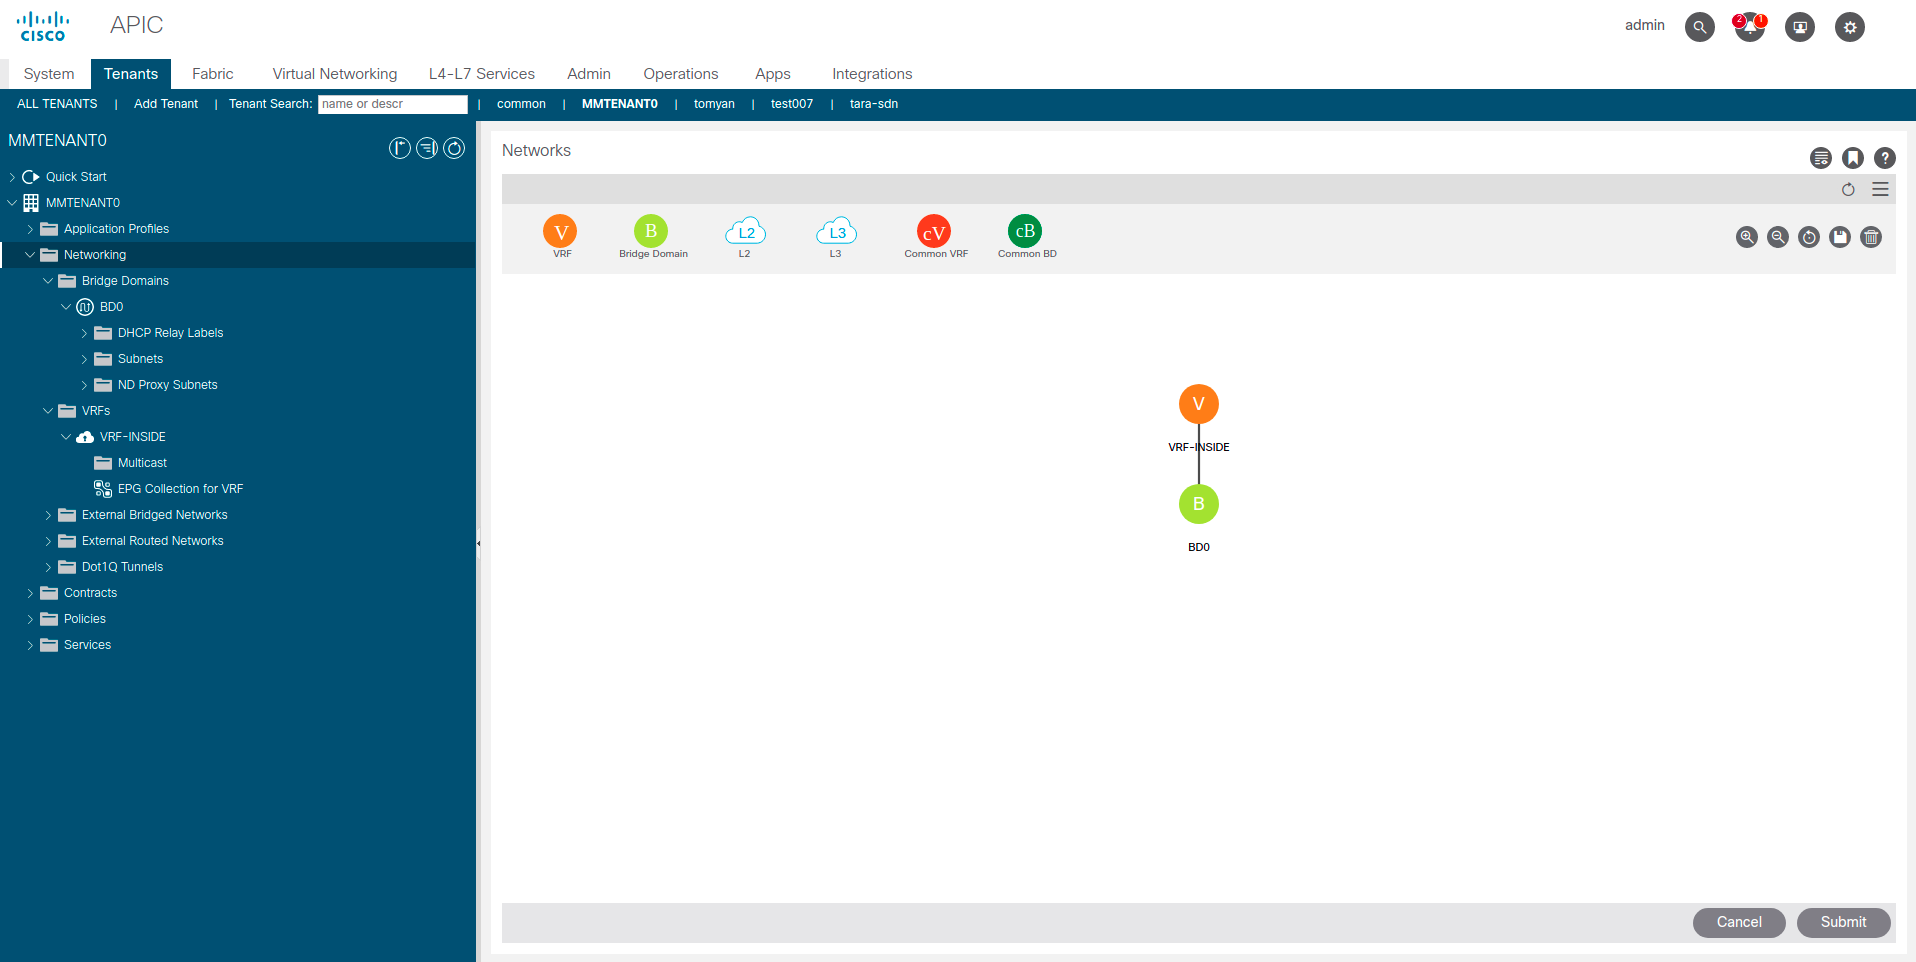
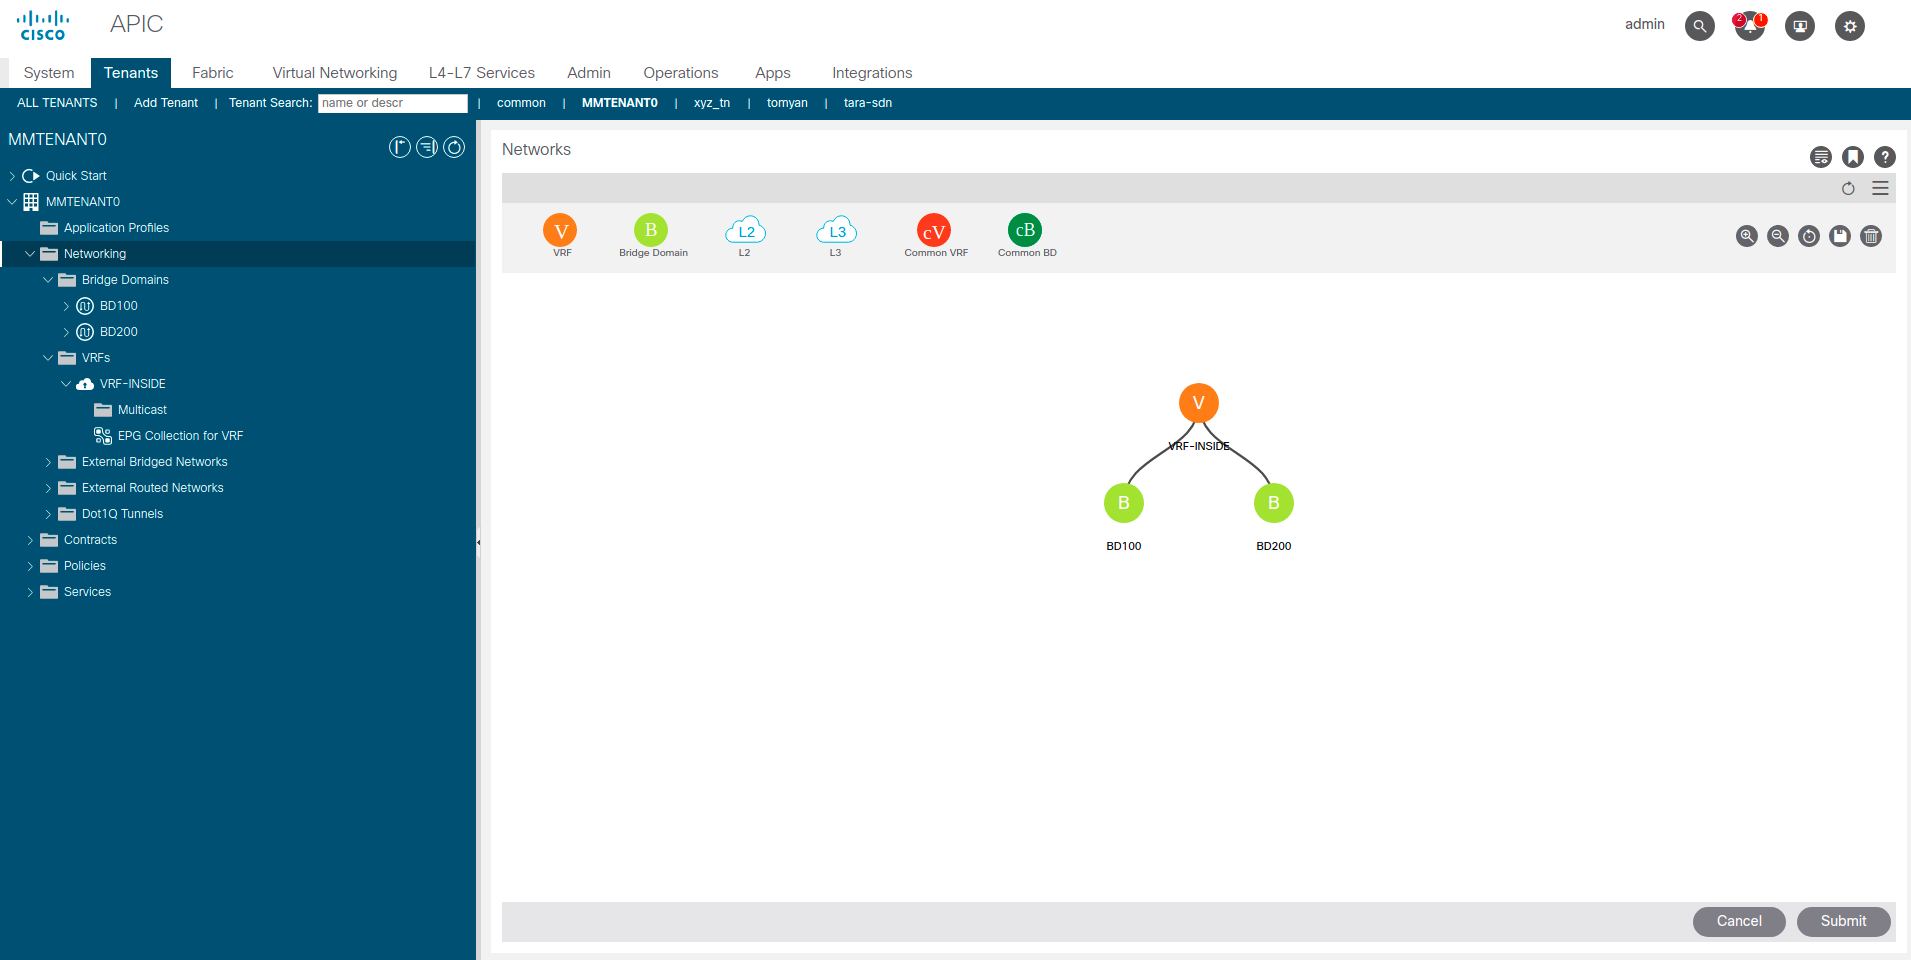
LAB03 begin

diff --git a/LAB2/LAB02_instructions.md b/LAB2/LAB02_instructions.md
@@ -1,12 +1,12 @@
 # LAB02 - Tenant, VRF and Bridge Domain
 
-## Table of Content
+## Table of Contents
 - [LAB02 - Tenant, VRF and Bridge Domain](#lab02---tenant-vrf-and-bridge-domain)
-  - [Table of Content](#table-of-content)
+  - [Table of Contents](#table-of-contents)
   - [Introduction](#introduction)
   - [Configuration Procedure](#configuration-procedure)
     - [ACI Tenant Creation](#aci-tenant-creation)
-    - [ACI VRF & Bridge Domain Creation](#aci-vrf--bridge-domain-creation)
+    - [ACI VRF & Bridge Domains Creation](#aci-vrf--bridge-domains-creation)
   - [Conclusions](#conclusions)
 
 ## Introduction
@@ -14,18 +14,20 @@
 In this lab you will configure from scratch the following objects on the Cisco APIC:
 - 1x Tenant
 - 1x VRF
-- 1x Bridge Domain
+- 2x Bridge Domains
 
 As reference, the following image reports the relationships between these three objects as they are modelled in the ACI Management Information Tree (MIT):
 
-Inserire Figura
+![mit](images/mit.png)
 
 To perform the configuration steps reported in the following section, please access to the Cisco APIC Sandbox @ [this link](https://sandboxapicdc.cisco.com/#) using the credential below:
 
 - User ID: admin
 - Password: ciscopsdt
 
-> :warning: When you will encounter "{*my_ID*}" remember to replace it whit the ID you were given at the beginning of this course. E.g. if you have ID = **10**, the string **MMTENANT{*my_ID*}** becomes **MMTENANT10**.
+> :warning: When you encounter "{*my_ID*}" in the configuration steps, remember to replace it with the ID you were given at the beginning of this course.
+> 
+> E.g. if you have ID = **10**, the string **MMTENANT{*my_ID*}** becomes **MMTENANT10**.
 
 ## Configuration Procedure
 
@@ -35,27 +37,37 @@ To perform the configuration steps reported in the following section, please acc
 2. On the submenu bar, click **Add Tenant**.
 3. In the _Create Tenant_ dialog box...
    1. Fill the **Name** field with **MMTENANT{*my_ID*}**
-   2. Check the box next to "_Take me to this tenant when I click finish_" (default config)
+   2. Check the box next to _Take me to this tenant when I click finish_ (default config)
    3. Click the **Submit** button.
 
-Take the time to open and explore the folders that have been contained under the root of your tenant. Clicking on MMTENANT{*my_ID*} in the navigation pane you will see a summary of the configured objects under your tenant. Of course, at this moment you will see something like this, i.e. your tenant is still empty:
+Take the time to open and explore the folders that have been created under the root of your tenant. Clicking on MMTENANT{*my_ID*} in the navigation pane you will see a summary of the configured objects under your tenant. Of course, your tenant is still empty, and thus you will see something like this:
 
 ![tenant_summary](images/tenant_summary.png)
 
 ---
 
-### ACI VRF & Bridge Domain Creation
+### ACI VRF & Bridge Domains Creation
 
-1. In the navigation pane, expand **MMTENANT{*my_ID*}>Networking**
-2. Right-click in **VRF** and select **Create VRF**
+1. In the navigation pane, expand **MMTENANT{*my_ID*}>Networking**.
+2. Right-click on **VRF** and select **Create VRF**.
 3. In the _Create VRF_ dialog box - _STEP1 > VRF_ tab...
    1. Fill the **Name** field with **VRF-INSIDE**
    2. Select **Enforced** next to _Policy Control Enforcement Preference_ (default config)
    3. Check the box next to _Create A Bridge Domain_
    4. Click the **Next** button.
 4. In the _Create VRF_ dialog box - _STEP2 > Bridge Domain_ tab...
-   1. Fill the **Name** field with **BD{*my_ID*}**
+   1. Fill the **Name** field with **BD100**
    2. Click the **Finish** button.
+5. Right-click on **Bridge Domains** (**Networking>Bridge Domains**) and select **Create Bridge Domain**
+6. In the _Create Bridge Domain_ dialog box - _STEP 1 > Main_ tab...
+   1. Fill the **Name** field with **BD200**
+   2. From the drop-down menu **VRF** select the previously created VRF **VRF-INSIDE**
+   3. Click the **Next** button.
+7. In the _Create Bridge Domain_ dialog box - _STEP 2 > L3 Configurations_ tab...
+   1. Click the **Next** button.
+8. In the _Create Bridge Domain_ dialog box - _STEP 3 > Advanced/Troubleshooting_ tab...
+   1. Click the **Finish** button.
+
 
 Now you should be able to see the newly created objects, respectively under the **Networking>VRFs** and **Networking>Bridge Domains** folders. If you click on **Networking**, you will see a graphical representation of your VRF and Bridge Domain:
 

diff --git a/LAB3/LAB03_instructions.md b/LAB3/LAB03_instructions.md
@@ -1,0 +1,50 @@
+# LAB03 - Application Profile (AP) and EndPoint Group (EPG)
+
+## Table of Contents
+
+- [LAB03 - Application Profile (AP) and EndPoint Group (EPG)](#lab03---application-profile-(ap)-and-endpoint-group-(epg))
+  - [Introduction](#introduction)
+  - [Configuration Procedure](#configuration-procedure)
+    - [ACI Application Profile](#aci-application-profile)
+    - [ACI EndPoint Groups](#aci-endpoint-groups)
+  - [Conclusions](#conclusions)
+
+## Introduction
+
+In this lab you will configure the following objects on the Cisco APIC inside the tenant you created in the [previous lab](../LAB2/LAB02_instructions.md):
+- 1x Application Profile
+- 2x EndPoint Groups
+
+As reference, the following image reports the relationships between these three objects as they are modelled in the ACI Management Information Tree (MIT):
+
+![mit](images/mit.png)
+
+To perform the configuration steps reported in the following section, please access to the Cisco APIC Sandbox @ [this link](https://sandboxapicdc.cisco.com/#) using the credential below:
+
+- User ID: admin
+- Password: ciscopsdt
+
+> :warning: When you encounter "{*my_ID*}" in the configuration steps, remember to replace it with the ID you were given at the beginning of this course.
+> 
+> E.g. if you have ID = **10**, the string **MMTENANT{*my_ID*}** becomes **MMTENANT10**.
+
+## Configuration Procedure
+
+### ACI Application Profile
+
+1. On the menu bar, click **Tenants**.
+2. Look for your tenant (**MMTENANT{*my_ID*}**) and double-click on it.
+3. Right-click on **Application Profiles** and select **Create Application Profile**.
+4. In the _Create Application Profile_ dialog box...
+   1. Fill the **Name** field with **AP{*my_ID*}**
+   2. In the _EPGs_ section, click the "**+**" button.
+   3. ******************TODO FROM HERE**
+   4. Click the **Submit** button.
+
+### ACI EndPoint Groups
+
+## Conclusion
+
+In this lab you created a tenant on the Cisco APIC and configured part of its "_networking side_", i.e. a VRF and a Bridge Domain. In the [next lab](../LAB4/LAB04_instructions.md) you will configure the "_application profile_" of your tenant.
+
+> :heavy_check_mark: Congratulations! You have successfully completed this lab!
